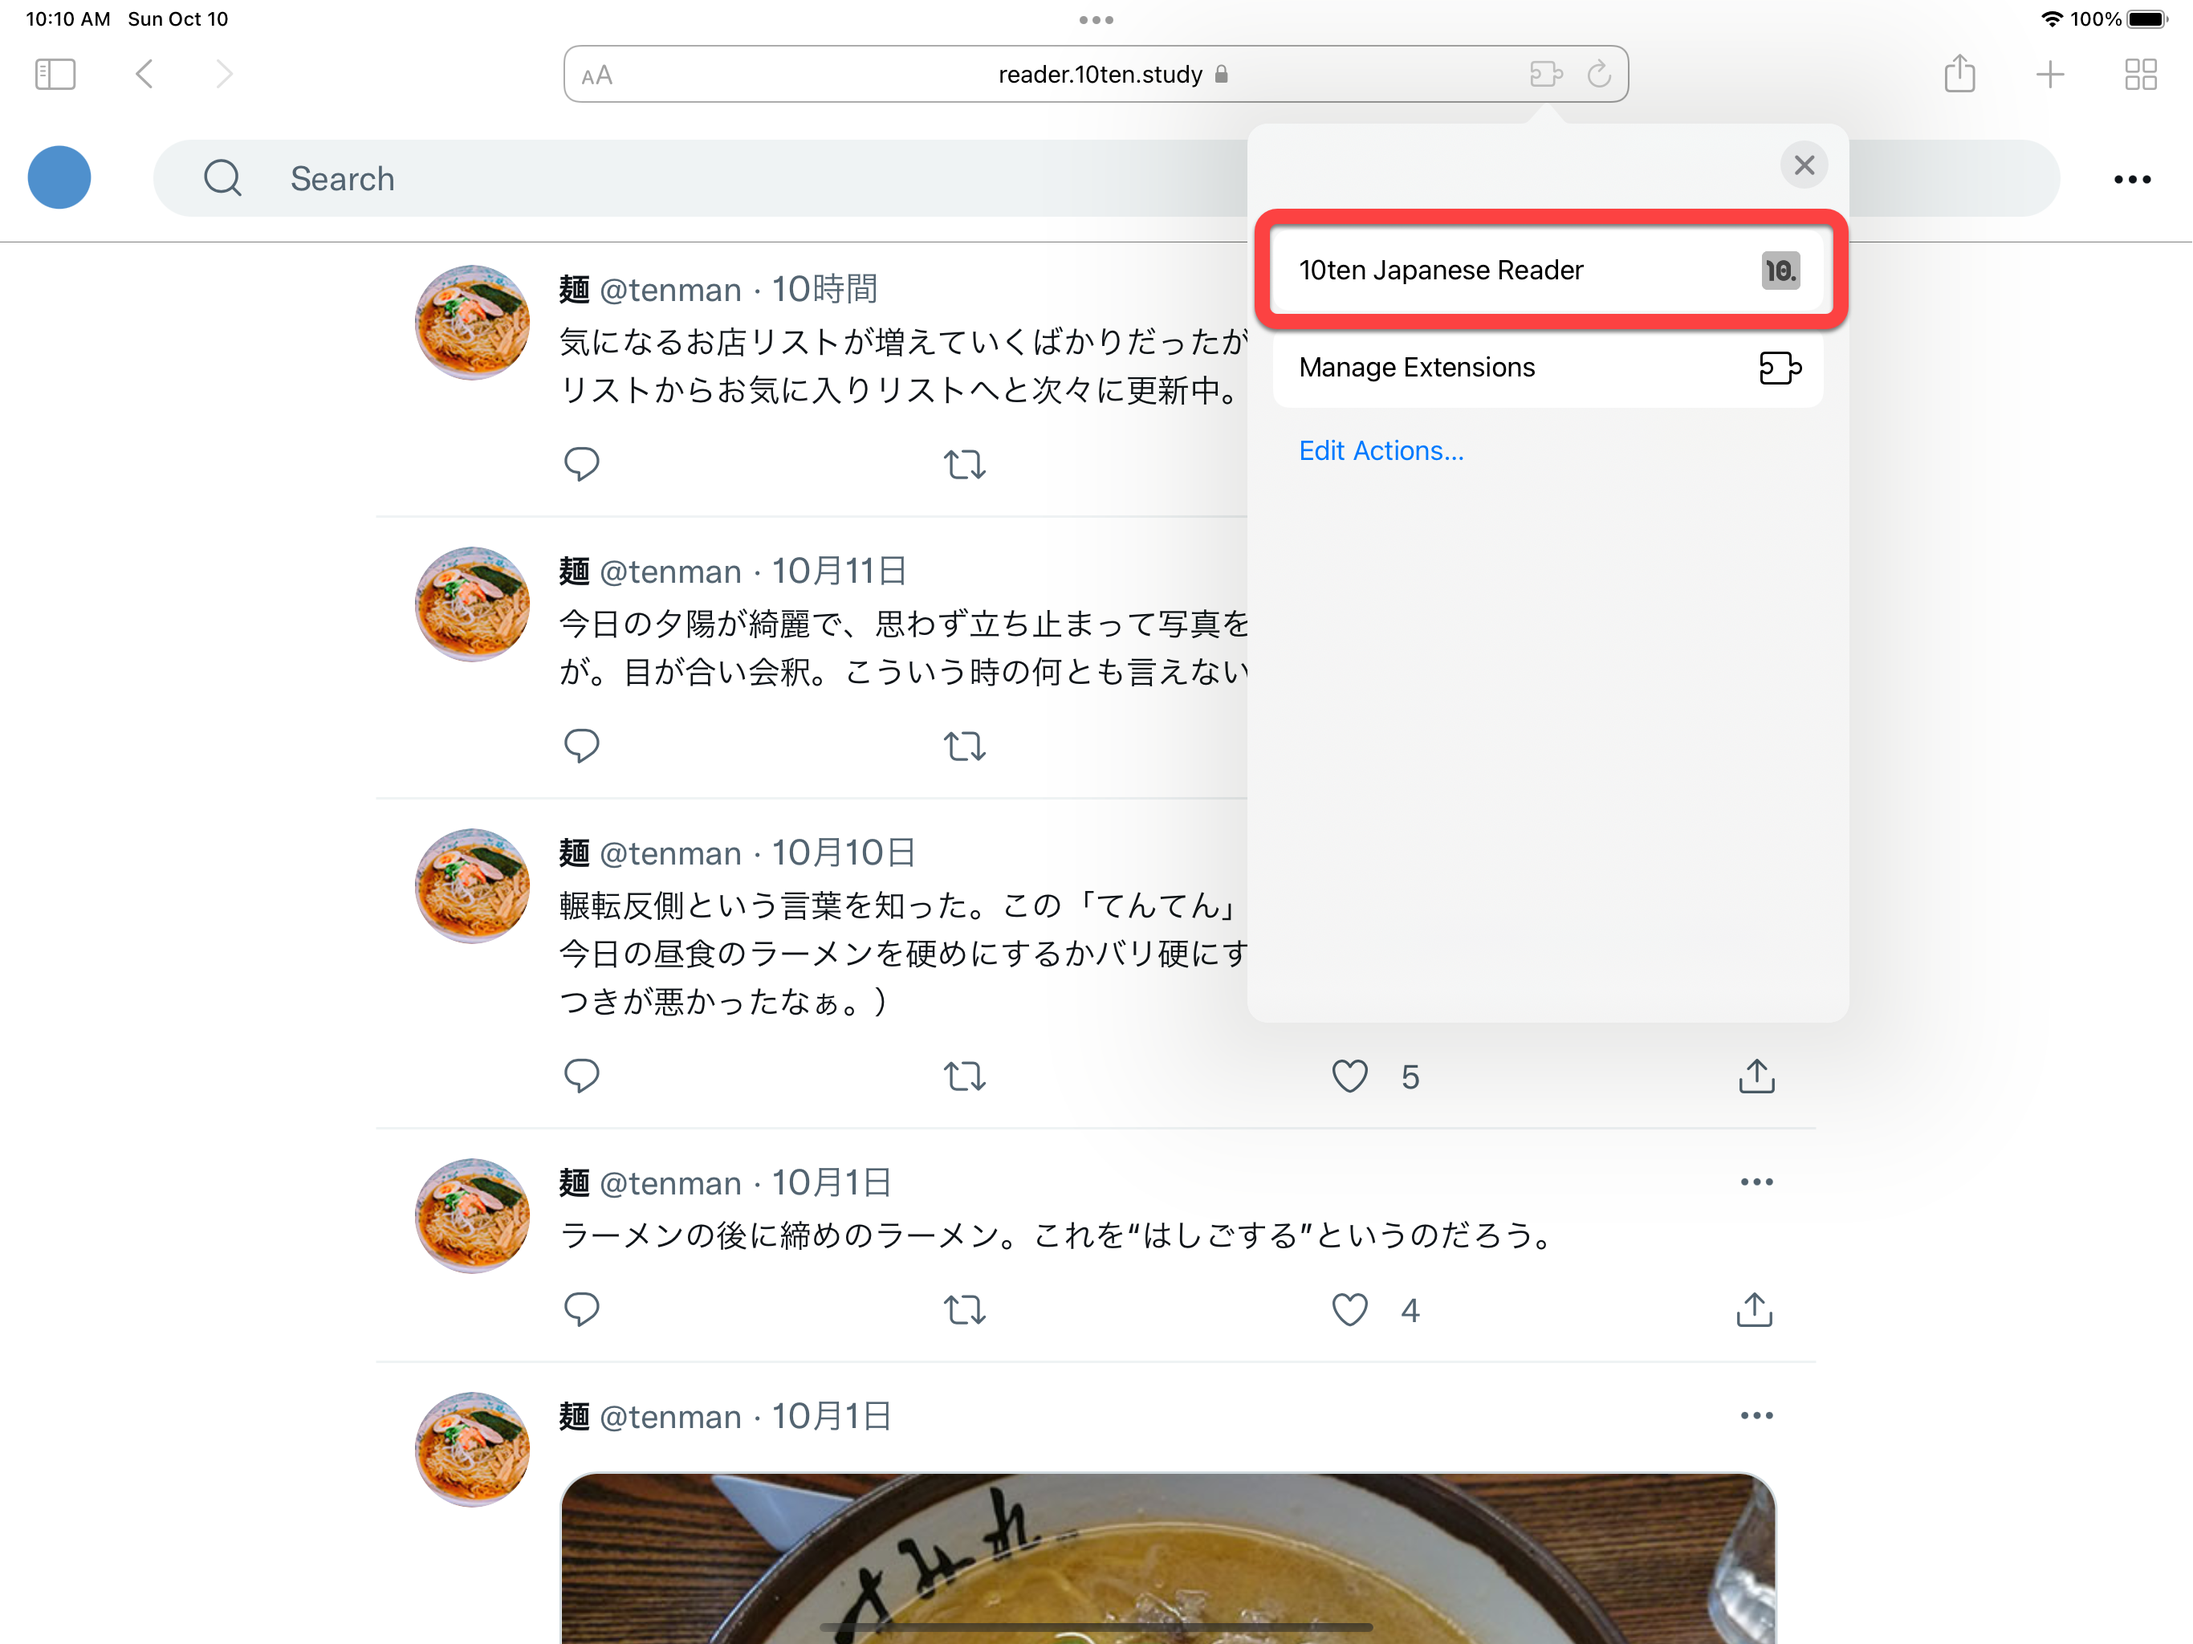
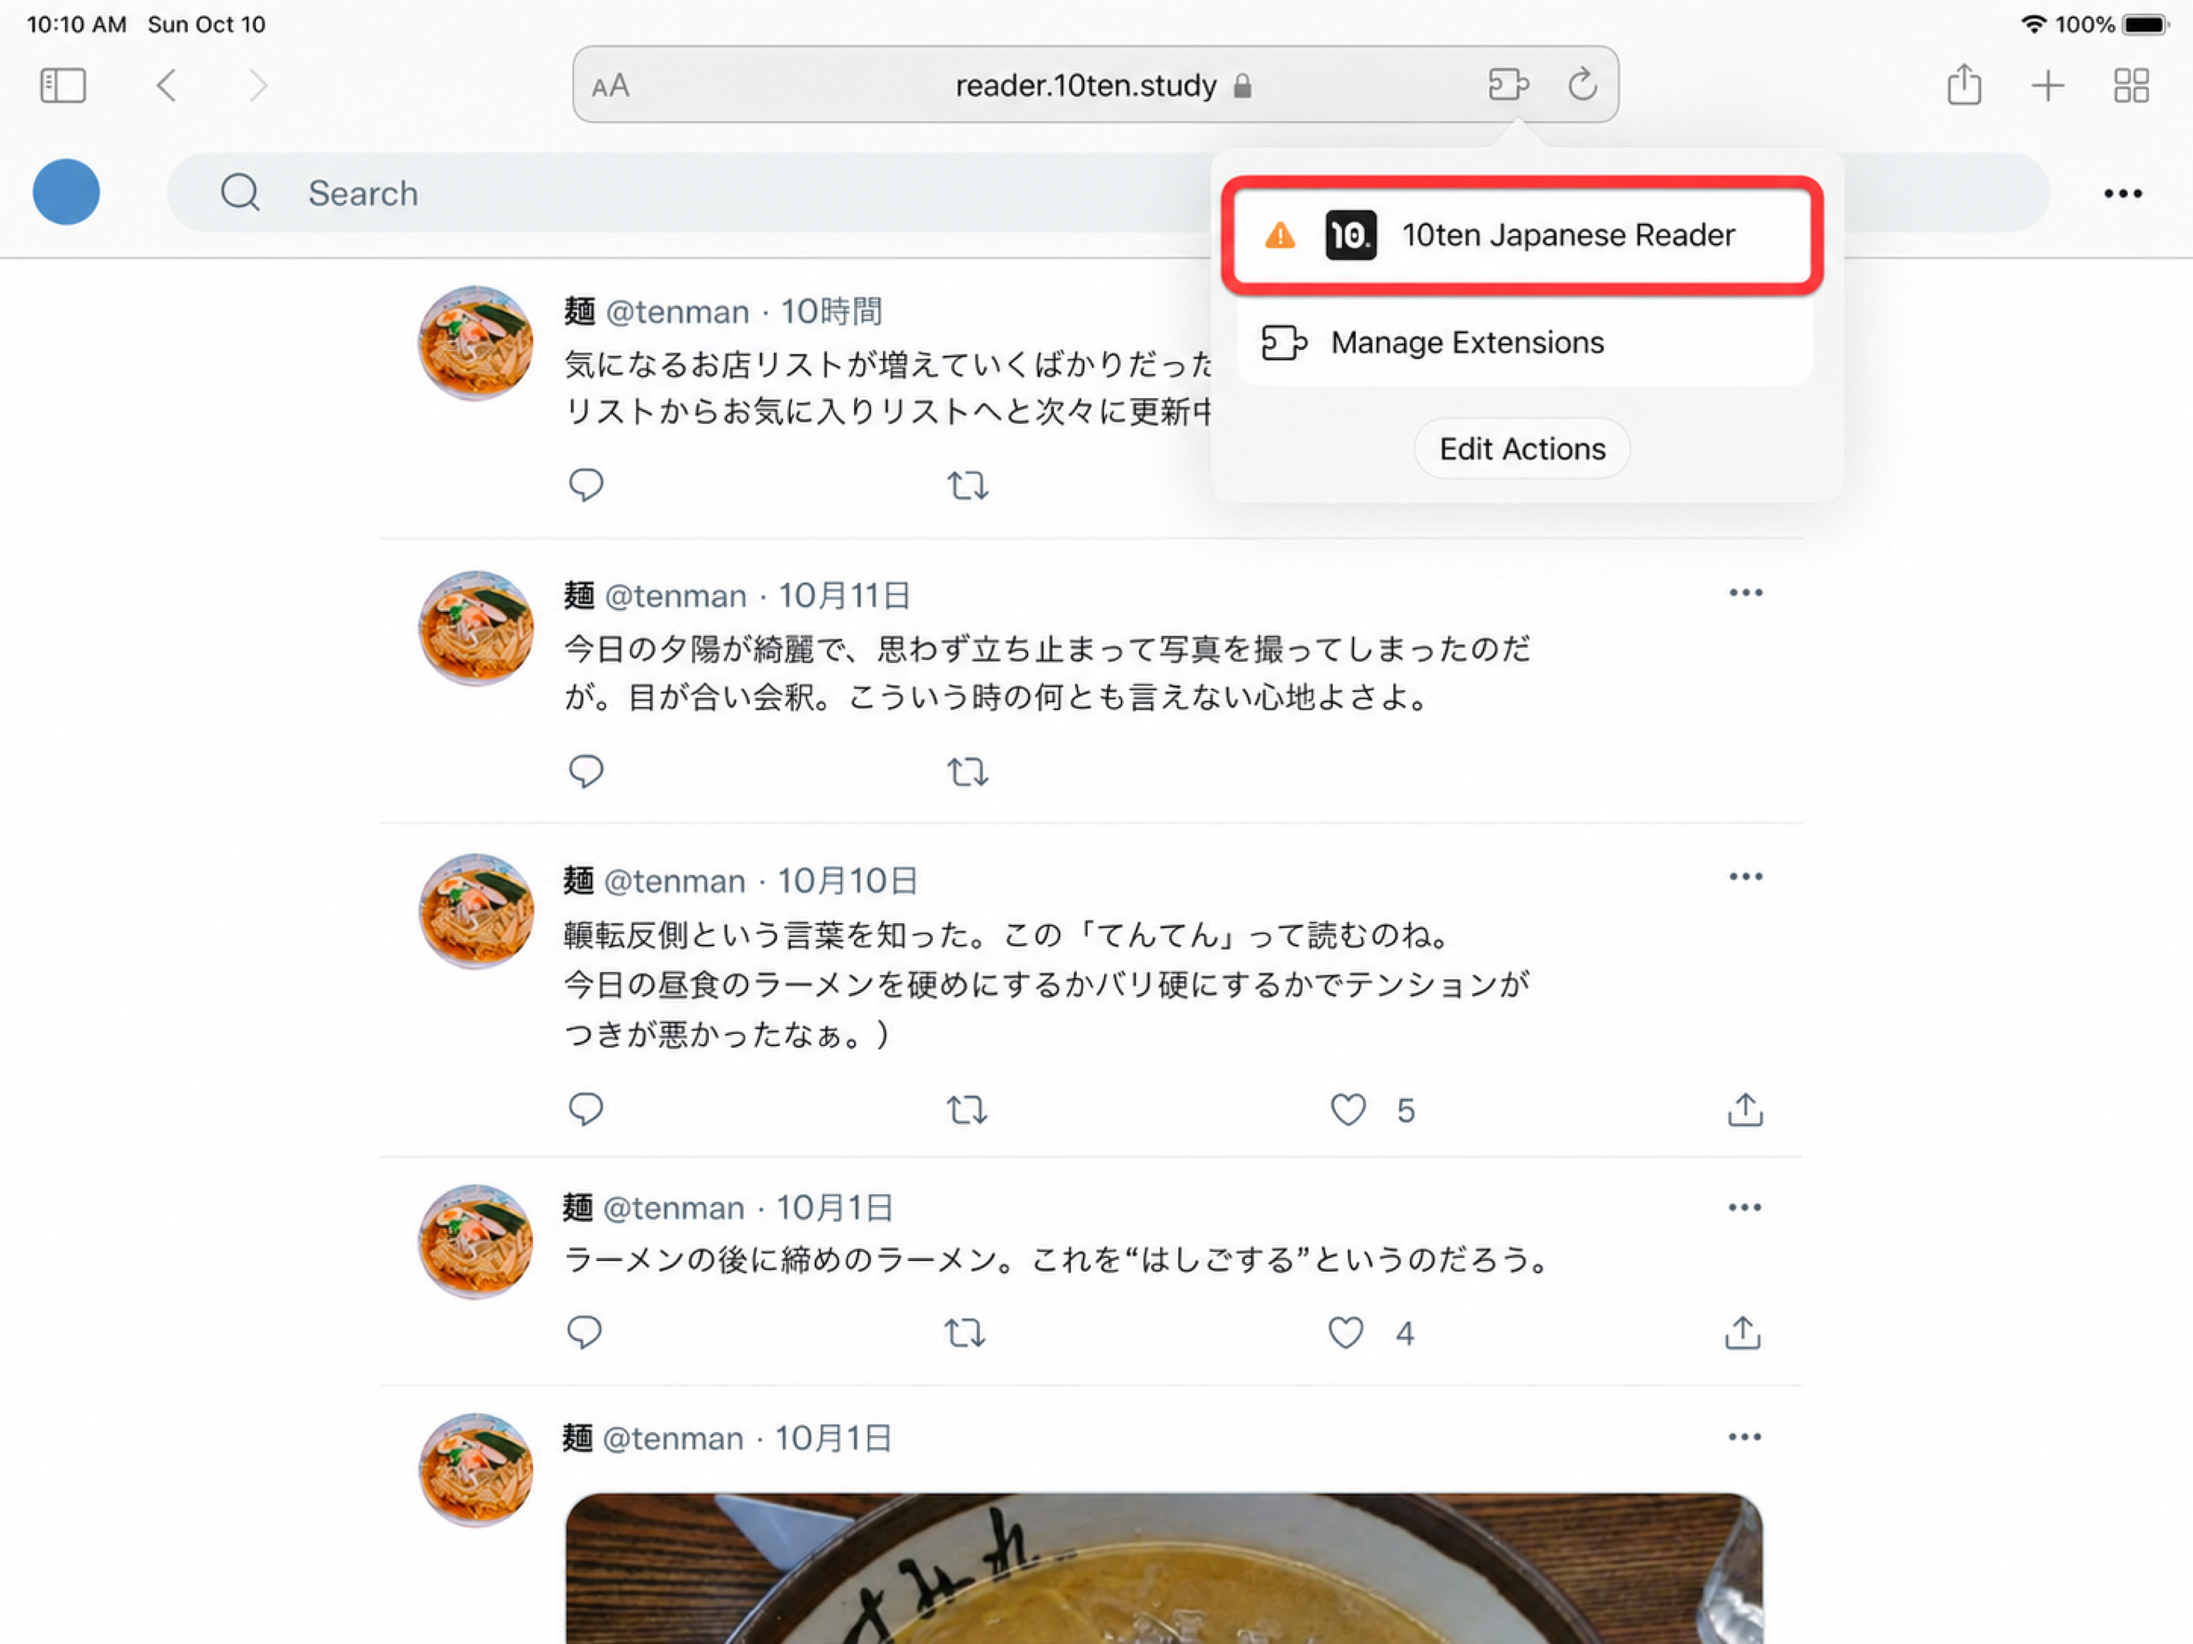
Keep 10ten enabled across Safari tabs (#3116)
* fix: keep Safari enabled across tabs

* chore: remove Safari build checker

* docs: clarify dormant activeTab manager

* docs: update Safari permission onboarding

* docs: use captured iPhone onboarding screenshots

* chore: address Safari review feedback

* docs: align iPhone onboarding screenshots

diff --git a/xcode13/Shared (App)/Resources/Style.css b/xcode13/Shared (App)/Resources/Style.css
@@ -218,6 +218,10 @@ body.platform-iphone .carousel .slides .slide:nth-child(5) .img {
 }
 
 body.platform-iphone .carousel .slides .slide:nth-child(6) .img {
+  background-image: url(iphone-6-permission.png);
+}
+
+body.platform-iphone .carousel .slides .slide:nth-child(7) .img {
   background-image: url(iphone-6.png);
 }
 
@@ -249,6 +253,10 @@ body.platform-iphone-pro .carousel .slides .slide:nth-child(5) .img {
 }
 
 body.platform-iphone-pro .carousel .slides .slide:nth-child(6) .img {
+  background-image: url(iphone-pro-6-permission.png);
+}
+
+body.platform-iphone-pro .carousel .slides .slide:nth-child(7) .img {
   background-image: url(iphone-pro-6.png);
 }
 
@@ -280,6 +288,10 @@ body.platform-ipad .carousel .slides .slide:nth-child(5) .img {
 }
 
 body.platform-ipad .carousel .slides .slide:nth-child(6) .img {
+  background-image: url(ipad-6-permission.png);
+}
+
+body.platform-ipad .carousel .slides .slide:nth-child(7) .img {
   background-image: url(ipad-6.png);
 }
 

diff --git a/knip.ts b/knip.ts
@@ -5,9 +5,7 @@ const config: KnipConfig = {
     // A utility we used to generate all the icon variations once that might yet
     // be useful again some day.
     'scripts/generate-icons.ts',
-    // This file is conditionally included in some configurations in a way knip
-    // can't be expected to follow. Hopefully we'll eventually remove this
-    // quirk and use the same tab manager everywhere.
+    // Keep this unused file exempt until it is removed.
     'src/background/active-tab-manager.ts',
     // Included by popups.html until we set up a better way of doing component
     // tests.

diff --git a/xcode13/Shared (App)/Base.lproj/Main.html b/xcode13/Shared (App)/Base.lproj/Main.html
@@ -49,6 +49,10 @@
       </li>
       <li class="slide">
         <div class=img></div>
+        <p>Allow <strong>10ten Japanese Reader</strong> to access this website</p>
+      </li>
+      <li class="slide">
+        <div class=img></div>
         <p>Drag the <strong>10.</strong> circle to look up words</p>
       </li>
       <li class="slide">
@@ -284,6 +288,7 @@
   </div>
   <div class=dots role=presentation>
     <div class="dot active"></div>
+    <div class=dot></div>
     <div class=dot></div>
     <div class=dot></div>
     <div class=dot></div>

diff --git a/rspack.config.js b/rspack.config.js
@@ -196,7 +196,6 @@ export default (env) => {
   } else if (env && env.target === 'safari') {
     configs.push(
       getExtConfig({
-        activeTabOnly: true,
         // Safari defaults to loading JS as Latin so make sure we add a UTF-8 BOM
         addBom: true,
         artifactsDir: 'dist-safari-package',

diff --git a/.changeset/calm-safaris-travel.md b/.changeset/calm-safaris-travel.md
@@ -1,0 +1,5 @@
+---
+'10ten-ja-reader': minor
+---
+
+(Safari) Keep 10ten enabled when switching tabs and websites.
